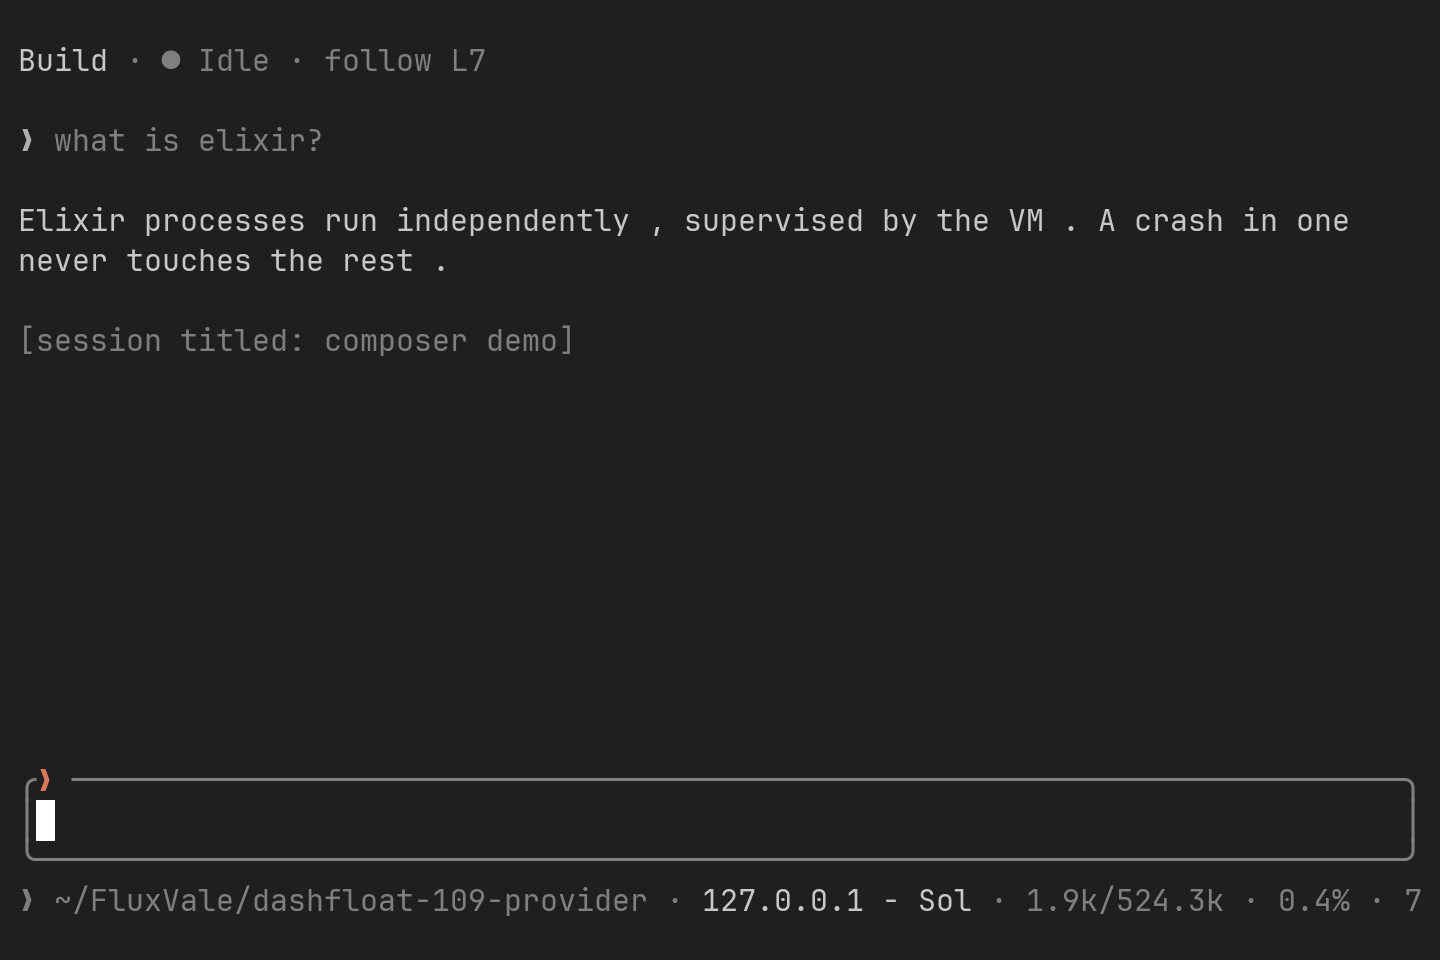
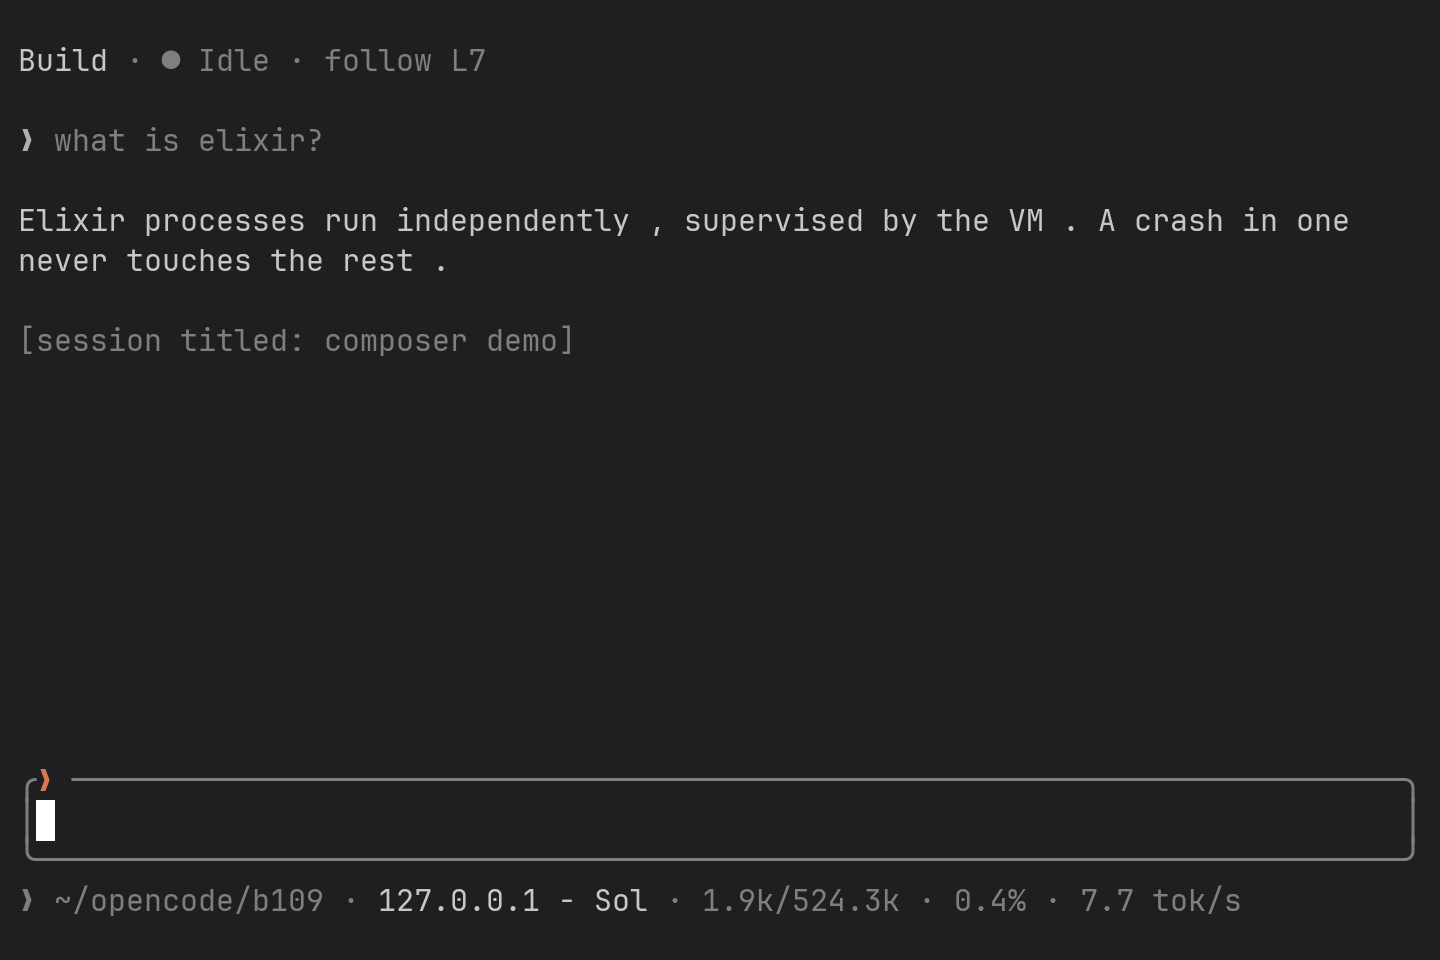
refactor(tui): share Config.host_label, supersede ADR 0008's label contract, rig guard (#109)
Hostile-review deltas: Config.host_label/1 goes public and State's footer
ladder reuses it (one degrade rule); ADR 0008's status-bar label section
points at ADR 0015's amendment; the rig rejects --expect-label combos
where the assert would not precede the shot; the mirror slash direction
of the settings-label match is pinned; 03 recaptured from a short path so
the whole footer fits the 80-col frame.

diff --git a/scripts/capture.py b/scripts/capture.py
@@ -862,6 +862,13 @@ def main():
     args = ap.parse_args()
     if args.mode in ("still", "gif") and not args.out:
         ap.error(f"{args.mode} requires --out FILE")
+    # The assert-then-shoot guarantee holds only where ONE still is written
+    # at the end (compact-session writes both stills inside its scenario;
+    # gif/probe write no still) — reject the combos rather than silently
+    # weakening the guarantee (issue #109).
+    if args.expect_label and (args.mode != "still" or args.scenario == "compact-session"):
+        ap.error("--expect-label needs still mode and a scenario that shoots "
+                 "once, at the end")
 
     # The compact-session scenario boots from a fixture session file written
     # BEFORE the app starts: a 20000-token window whose trigger the resumed

diff --git a/docs/decisions/0008-config-layout-profiles-json5.md b/docs/decisions/0008-config-layout-profiles-json5.md
@@ -270,6 +270,12 @@ status-bar field (ADR 0006's model slot): `"nickname (profile)"` — e.g.
 then the model id, then `—` (view fallback unchanged). The context-usage
 denominator still reads `context_tokens` off the provider.
 
+**Superseded:** the field moved to the footer in
+[ADR 0015](0015-input-surface-cursor-stats-ghost.md) §2 (issue #67) and its
+shape became `provider - model` in
+[ADR 0015](0015-input-surface-cursor-stats-ghost.md)'s 2026-10-31 amendment
+(issue #109).
+
 ## Alternatives considered
 
 - **Amend ADR 0005 in place** — the config contract change (layout, profiles,
